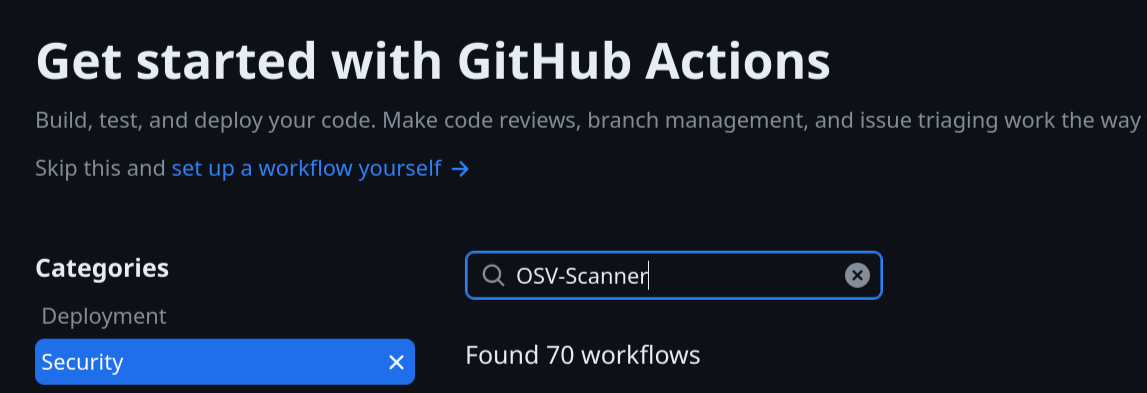
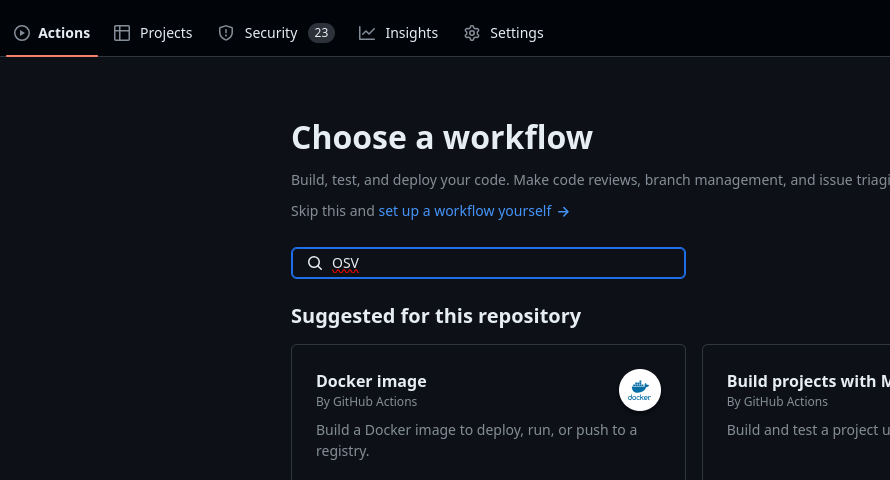
Update readme to include instructions using the new starter workflow

diff --git a/README.md b/README.md
@@ -28,31 +28,23 @@ Scanning your project on each pull request can help you keep vulnerabilities out
 
 ## Installation
 
-<!-- The OSV-Scanner GitHub Action can be [automatically](#automatic-installation) or [manually](#manual-installation) installed.  -->
+The OSV-Scanner GitHub Action can be [automatically](#automatic-installation) or [manually](#manual-installation) installed.
 
-<!-- ### Automatic installation
+### Automatic installation
 
 1) From your GitHub project's main page, click “Actions” tab in the navigation bar.
 
 ![Select the actions tab on the repository navigation bar.](./images/actions-tab.png)
 
-2) Scroll to the "Security actions" section and click on "View all". This will take you to a url in the form `https://www.github.com/{username}/{repository}/actions/new?category=security`
-
-![Image indicates the location of the security actions section and the "view all" link.](./images/security-actions.png)
-
-3) Search for "OSV-Scanner".
+2) Search for "OSV-Scanner".
 
 ![Image shows the GitHub Actions search bar.](./images/osv-scanner-search.png)
 
-4) Choose the "OSV-Scanner" from the list of workflows, and then click “Configure”.
+3) Choose the "OSV-Scanner" from the list of workflows, and then click “Configure”.
 
-TODO: Insert image
+![Image shows OSV Scanner workflow after searching](./images/osv-scanner-configure.png)
 
-5) Commit the changes.
-
-TODO: Insert image
-
-6) Configure the workflow
+4) Configure the workflow
 
 The automatically installed GitHub Action includes functionality for both a [scheduled scan](#scheduled-scan) and a [scan on pull request](#scan-on-pull-request).
 
@@ -60,7 +52,9 @@ If you only want a scheduled scan, you can comment out the "scan-pr" job and onl
 
 If you only want to run a scan on pull request, you can comment out the "scan-scheduled" job and only run the action on "pull request" and "merge group".
 
-If you want both, you can leave the action as is. If you want these functionalities to be seperate for tracking purposes, we recommend following the [manual installation instructions](#manual-installation).  -->
+If you want both, you can leave the action as is. If you want these functionalities to be separate for tracking purposes, we recommend following the [manual installation instructions](#manual-installation).
+
+5) Commit the changes.
 
 ### Manual installation
 
